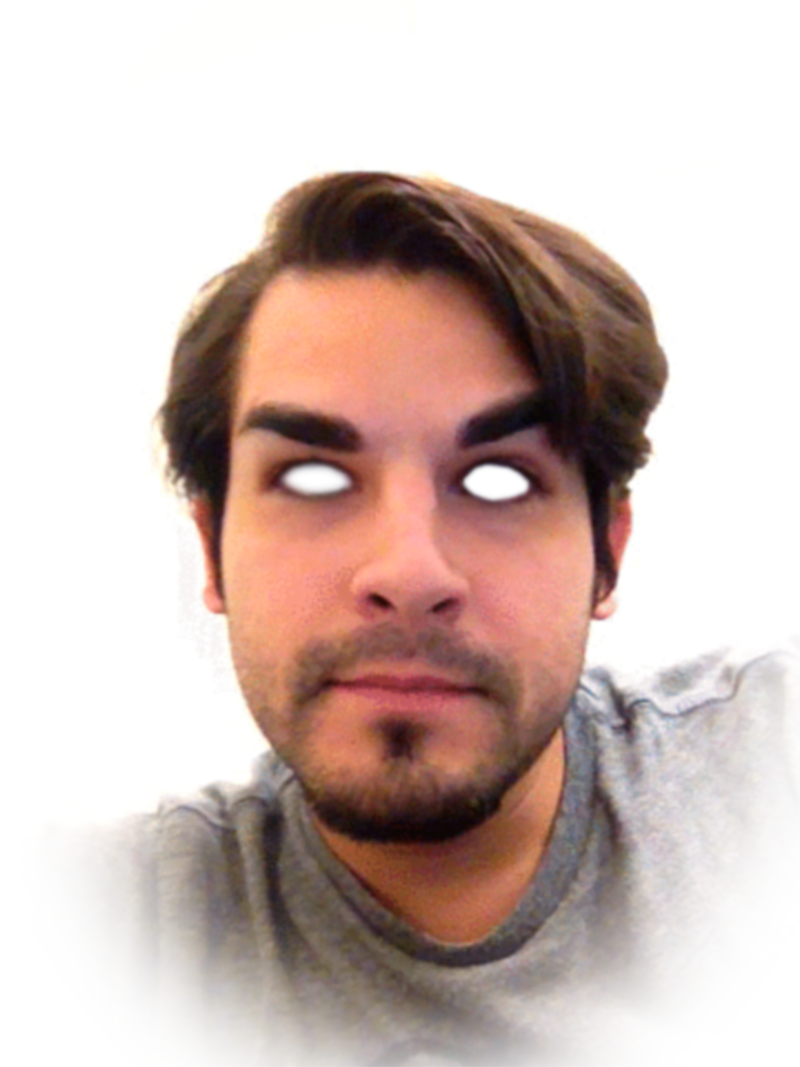
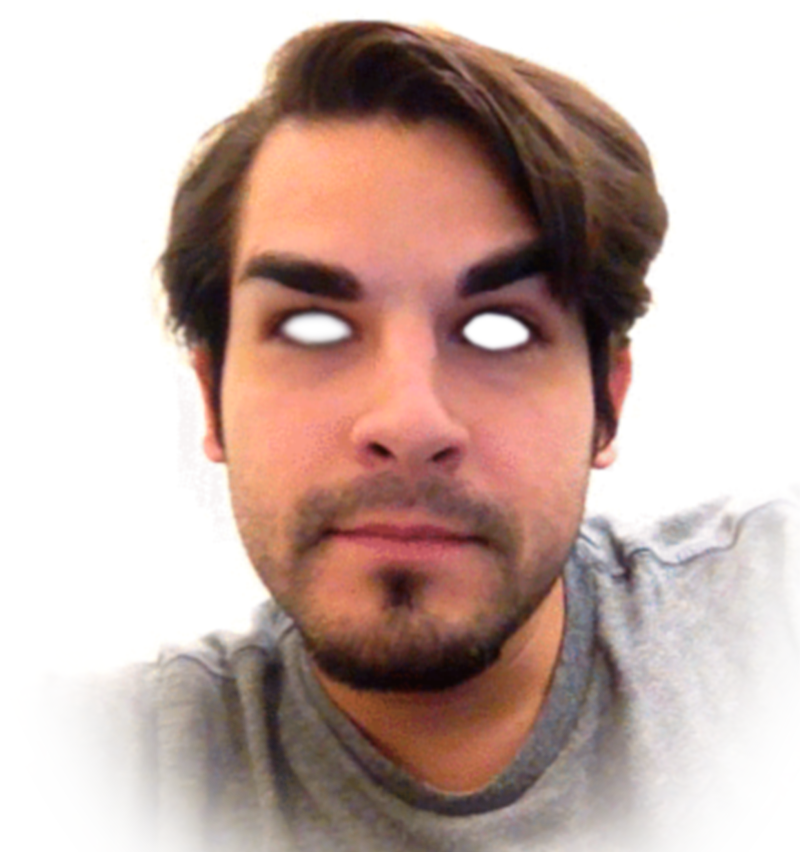
refactor, cropped img

diff --git a/public/css/style.css b/public/css/style.css
@@ -2,80 +2,33 @@
    v2.0 | 20110126
    License: none (public domain)
 */
-
-html, body, div, span, applet, object, iframe,
-h1, h2, h3, h4, h5, h6, p, blockquote, pre,
-a, abbr, acronym, address, big, cite, code,
-del, dfn, em, img, ins, kbd, q, s, samp,
-small, strike, strong, sub, sup, tt, var,
-b, u, i, center,
-dl, dt, dd, ol, ul, li,
-fieldset, form, label, legend,
-table, caption, tbody, tfoot, thead, tr, th, td,
-article, aside, canvas, details, embed, 
-figure, figcaption, footer, header, hgroup, 
-menu, nav, output, ruby, section, summary,
-time, mark, audio, video {
-	margin: 0;
-	padding: 0;
-	border: 0;
-	font-size: 100%;
-	font: inherit;
-	vertical-align: baseline;
-}
+html,body,div,span,applet,object,iframe,
+h1,h2,h3,h4,h5,h6,p,blockquote,pre,
+a,abbr,acronym,address,big,cite,code,
+del,dfn,em,img,ins,kbd,q,s,samp,
+small,strike,strong,sub,sup,tt,var,
+b,u,i,center,
+dl,dt,dd,ol,ul,li,
+fieldset,form,label,legend,
+table,caption,tbody,tfoot,thead,tr,th,td,
+article,aside,canvas,details,embed,
+figure,figcaption,footer,header,hgroup,
+menu,nav,output,ruby,section,summary,
+time,mark,audio,video{margin:0;padding:0;border:0;font-size:100%;font:inherit;vertical-align:baseline;}
 /* HTML5 display-role reset for older browsers */
-article, aside, details, figcaption, figure, 
-footer, header, hgroup, menu, nav, section {
-	display: block;
-}
-body {
-	line-height: 1;
-}
-ol, ul {
-	list-style: none;
-}
-blockquote, q {
-	quotes: none;
-}
-blockquote:before, blockquote:after,
-q:before, q:after {
-	content: '';
-	content: none;
-}
-table {
-	border-collapse: collapse;
-	border-spacing: 0;
-}
+article,aside,details,figcaption,figure,
+footer,header,hgroup,menu,nav,section{display:block;}
+body{line-height:1;}
+ol,ul{list-style:none;}
+blockquote,q{quotes:none;}
+blockquote:before,blockquote:after,
+q:before,q:after{content:'';content:none;}
+table{border-collapse:collapse;border-spacing:0;}
 
 /* Googily eyes */
 
-#contain {
-    position: relative;
-    margin: 0 auto;
-    margin-bottom: 30px;
-    width: 800px;
-}
-
-#face {
-  position: relative;
-  z-index: 1;
-}
-
-.left_eye, .right_eye {
-  z-index: 0;
-  width: 51px;
-  height: 47px;
-  top:  457px;
-}
-
-.left_eye {
-    position: absolute;
-    left: 290px;
-    background: url("../images/eye.png") no-repeat;
-}
-
-.right_eye {
-    position: absolute;
-    left: 475px;
-    background: url("../images/eye.png") no-repeat;
-}
+#contain{position:relative;margin:0 auto;width:800px;}
+#face{position:relative;z-index:1;}
+.eye{position:absolute;z-index:0;width:51px;height:47px;top:308px;background:url("../images/eye.png") no-repeat;}
+#left{left:290px;}
+#right{left:475px;}

diff --git a/public/js/eye.js b/public/js/eye.js
@@ -147,5 +147,5 @@ var Eye = new Class ({
 });
 
 var options = { socketRadius: 28 };
-new Eye('left_eye', options);
-new Eye('right_eye', options);
+new Eye('left', options);
+new Eye('right', options);
